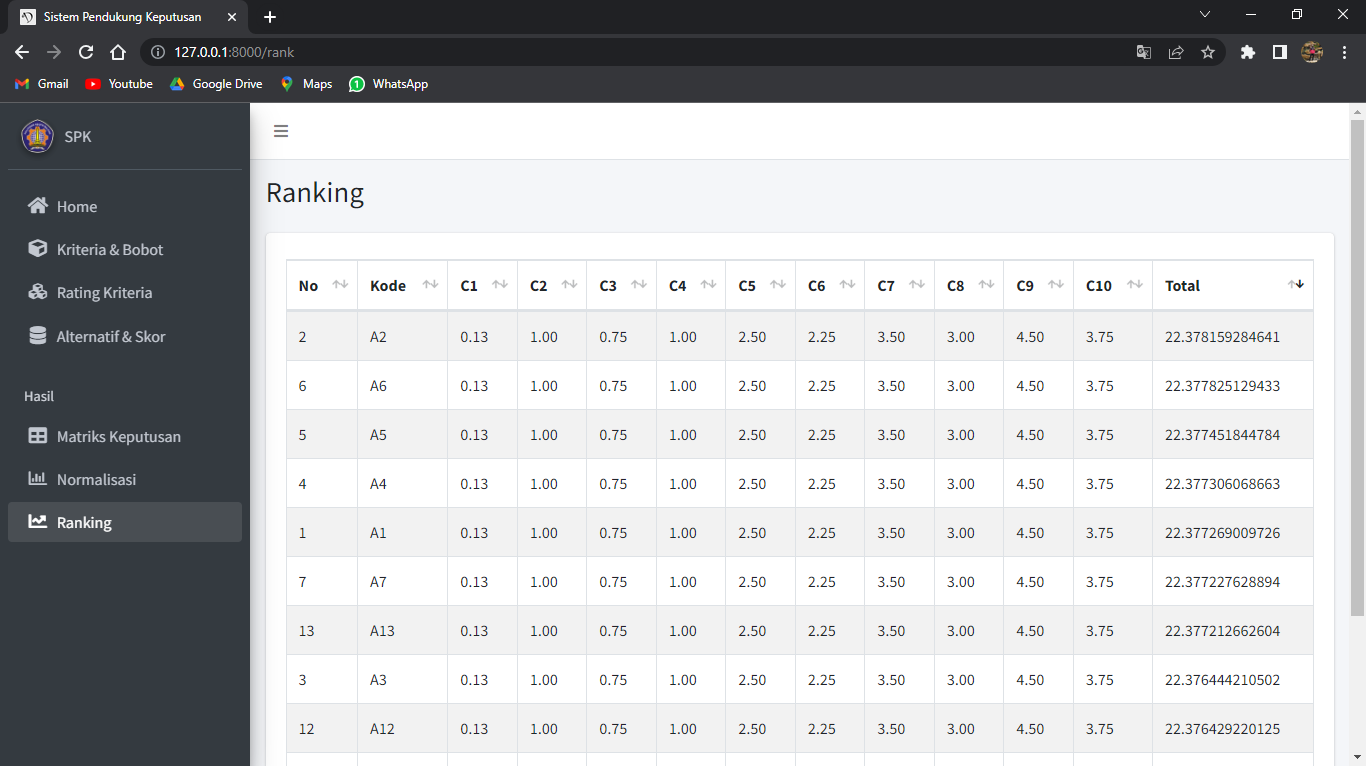
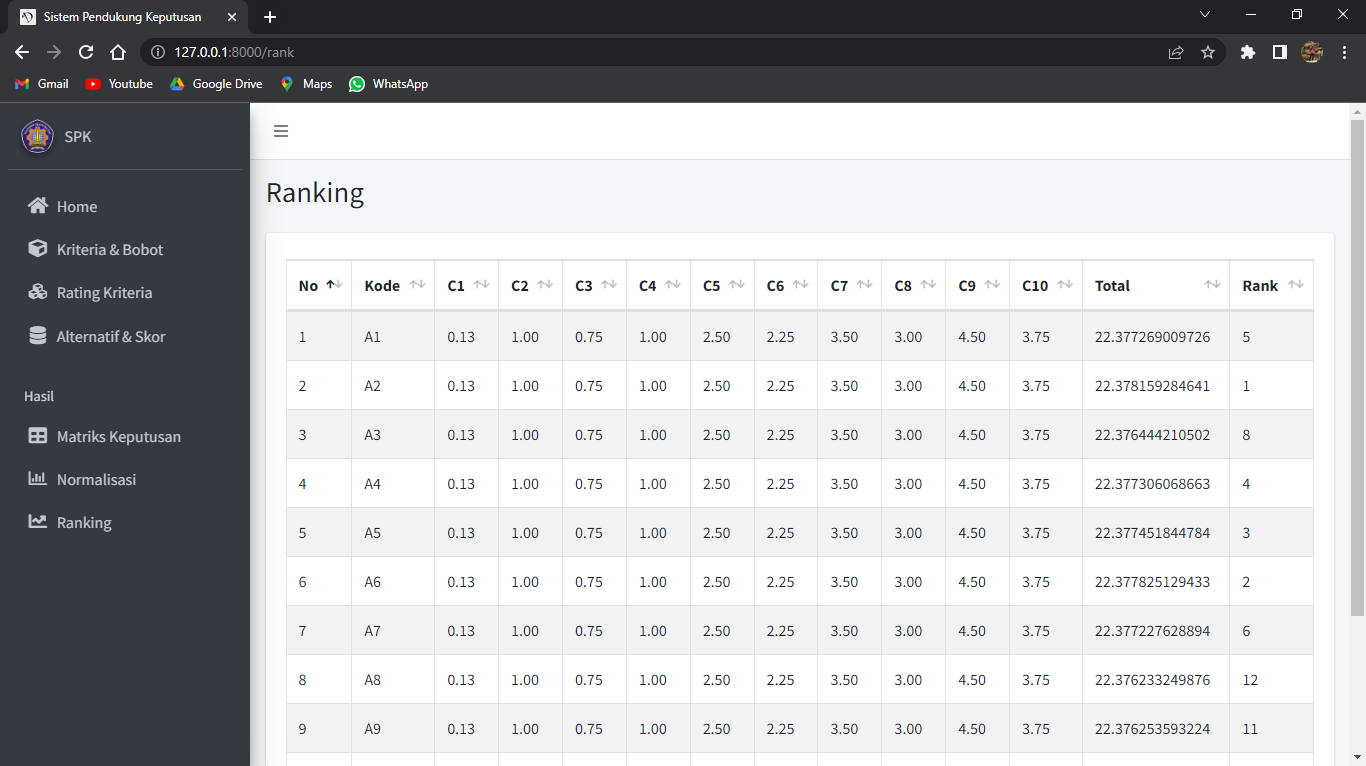
spk

diff --git a/app/Http/Controllers/RankController.php b/app/Http/Controllers/RankController.php
@@ -16,6 +16,7 @@ class RankController extends Controller
      */
     public function index()
     {
+        // Mengambil skor-skor dari model AlternativeScore dengan melakukan join terhadap tabel-tabel terkait
         $scores = AlternativeScore::select(
             'alternativescores.id as id',
             'alternatives.id as ida',
@@ -31,9 +32,9 @@ class RankController extends Controller
             ->leftJoin('criteriaratings', 'criteriaratings.id', '=', 'alternativescores.rating_id')
             ->get();
 
-        // duplicate scores object to get rating value later,
-        // because any call to $scores object is pass by reference
-        // clone, replica, tobase didnt work
+        // Menduplikasi objek $scores untuk mendapatkan nilai rating nanti,
+        // karena setiap panggilan objek $scores adalah pass by reference
+        // clone, replica, dan tobase tidak berhasil
         $cscores = AlternativeScore::select(
             'alternativescores.id as id',
             'alternatives.id as ida',
@@ -49,28 +50,30 @@ class RankController extends Controller
             ->leftJoin('criteriaratings', 'criteriaratings.id', '=', 'alternativescores.rating_id')
             ->get();
 
+        // Mengambil data alternatif dari model Alternative
         $alternatives = Alternative::get();
 
+        // Mengambil data bobot kriteria dari model CriteriaWeight
         $criteriaweights = CriteriaWeight::get();
 
         // Inisialisasi array untuk menyimpan total nilai per baris
         $totalPerRow = [];
 
-        // Normalization
+        // Normalisasi
         foreach ($alternatives as $a) {
-            // Get all scores for each alternative id
+            // Mendapatkan semua skor untuk setiap id alternatif
             $afilter = $scores->where('ida', $a->id)->values()->all();
-            // Loop each criteria
+            // Melakukan loop pada setiap kriteria
             foreach ($criteriaweights as $icw => $cw) {
-                // Get all rating value for each criteria
+                // Mendapatkan semua nilai rating untuk setiap kriteria
                 $rates = $cscores->map(function ($val) use ($cw) {
                     if ($cw->id == $val->idw) {
                         return $val->rating;
                     }
                 })->toArray();
 
-                // array_filter for removing null value caused by map,
-                // array_values for reindexing the array
+                // array_filter digunakan untuk menghapus nilai null yang disebabkan oleh map,
+                // array_values digunakan untuk mengindeks kembali array
                 $rates = array_values(array_filter($rates));
 
                 $total = 0;
@@ -80,12 +83,12 @@ class RankController extends Controller
                 $sqrt = sqrt($total);
                 $normalisasi = $afilter[$icw]->rating / $sqrt;
 
-                // MENGHITUNG NILAI DISTANCE SCORE
+                // Menghitung Nilai Distance Score
                 $r1 = $normalisasi;
                 $r2 = $cw->id;
                 $distance = pow(pow(0.5 * $r1, 3) + pow(0.5 * $r2, 3), 1/3);
 
-                // MENGHITUNG NILAI PREFERENSI DAN NILAI DISTANCE SCORE
+                // Mengghitung Nilai Preferensi dan Nilai Distance Score
                 $pref = $distance * $cw->weight;
                 $result = round($pref, 15);
                 $afilter[$icw]->rating = number_format($result, 2, '.', '');
@@ -98,6 +101,17 @@ class RankController extends Controller
                 }
             }
         }
-        return view('rank', compact('scores', 'alternatives', 'criteriaweights', 'totalPerRow'))->with('i', 0);
+
+        // Melakukan perangkingan berdasarkan total nilai per baris
+        $ranking = $totalPerRow;
+        arsort($ranking);
+
+        // Menghitung peringkat (rank)
+        $rank = 1;
+        foreach ($ranking as $key => $value) {
+            $ranking[$key] = $rank++;
+        }
+
+        return view('rank', compact('scores', 'alternatives', 'criteriaweights', 'totalPerRow', 'ranking'))->with('i', 0);
     }
 }

diff --git a/app/Http/Controllers/NormalizationController.php b/app/Http/Controllers/NormalizationController.php
@@ -16,6 +16,7 @@ class NormalizationController extends Controller
      */
     public function index()
     {
+        // Mengambil semua skor alternatif beserta informasi terkait
         $scores = AlternativeScore::select(
             'alternativescores.id as id',
             'alternatives.id as ida',
@@ -29,7 +30,8 @@ class NormalizationController extends Controller
             ->leftJoin('criteriaweights', 'criteriaweights.id', '=', 'alternativescores.criteria_id')
             ->leftJoin('criteriaratings', 'criteriaratings.id', '=', 'alternativescores.rating_id')
             ->get();
-            
+        
+        // Mengambil semua skor alternatif (versi kedua)    
         $cscores = AlternativeScore::select(
             'alternativescores.id as id',
             'alternatives.id as ida',
@@ -44,24 +46,27 @@ class NormalizationController extends Controller
             ->leftJoin('criteriaratings', 'criteriaratings.id', '=', 'alternativescores.rating_id')
             ->get();
 
+        // Mengambil semua alternatif
         $alternatives = Alternative::get();
+
+        // Mengambil semua bobot kriteria
         $criteriaweights = CriteriaWeight::get();
 
-        // Normalization
+        // Normalisasi
         foreach ($alternatives as $a) {
-            // Get all scores for each alternative id
+            // Mengambil semua skor untuk setiap id alternatif
             $afilter = $scores->where('ida', $a->id)->values()->all();
-            // Loop each criteria
+            // Looping setiap kriteria
             foreach ($criteriaweights as $icw => $cw) {
-                // Get all rating value for each criteria
+                // Mengambil semua nilai rating untuk setiap kriteria
                 $rates = $cscores->map(function ($val) use ($cw) {
                     if ($cw->id == $val->idw) {
                         return $val->rating;
                     }
                 })->toArray();
 
-                // array_filter for removing null value caused by map,
-                // array_values for reindexing the array
+                // Menghapus nilai null yang dihasilkan oleh map,
+                // Mengindeks ulang array
                 $rates = array_values(array_filter($rates));
 
                 $total = 0;

diff --git a/app/Http/Controllers/AlternativeController.php b/app/Http/Controllers/AlternativeController.php
@@ -61,12 +61,12 @@ class AlternativeController extends Controller
             'name' => 'required'
         ]);
 
-        // Save the alternative
+        // Menyimpan alternatif
         $alt = new Alternative;
         $alt->name = $request->name;
         $alt->save();
 
-        // Save the score
+        // Menyimpan skor
         $criteriaweight = CriteriaWeight::get();
         foreach ($criteriaweight as $cw) {
             $score = new AlternativeScore();
@@ -114,7 +114,7 @@ class AlternativeController extends Controller
      */
     public function update(Request $request, Alternative $alternative)
     {
-        // Save the score
+        // Menyimpan Skor
         $scores = AlternativeScore::where('alternative_id', $alternative->id)->get();
         $criteriaweight = CriteriaWeight::get();
         foreach ($criteriaweight as $key => $cw) {

diff --git a/resources/views/rank.blade.php b/resources/views/rank.blade.php
@@ -26,6 +26,7 @@
                                         <th>{{$c->name}}</th>
                                         @endforeach
                                         <th>Total</th>
+                                        <th>Rank</th>
                                     </tr>
                                 </thead>
                                 <tbody>
@@ -40,6 +41,7 @@
                                                 <td>{{$s->rating}}</td>
                                             @endforeach
                                             <td>{{$totalPerRow[$a->id]}}</td>
+                                            <td>{{$ranking[$a->id]}}</td>
                                         </tr>
                                     @endforeach
                                 </tbody>
